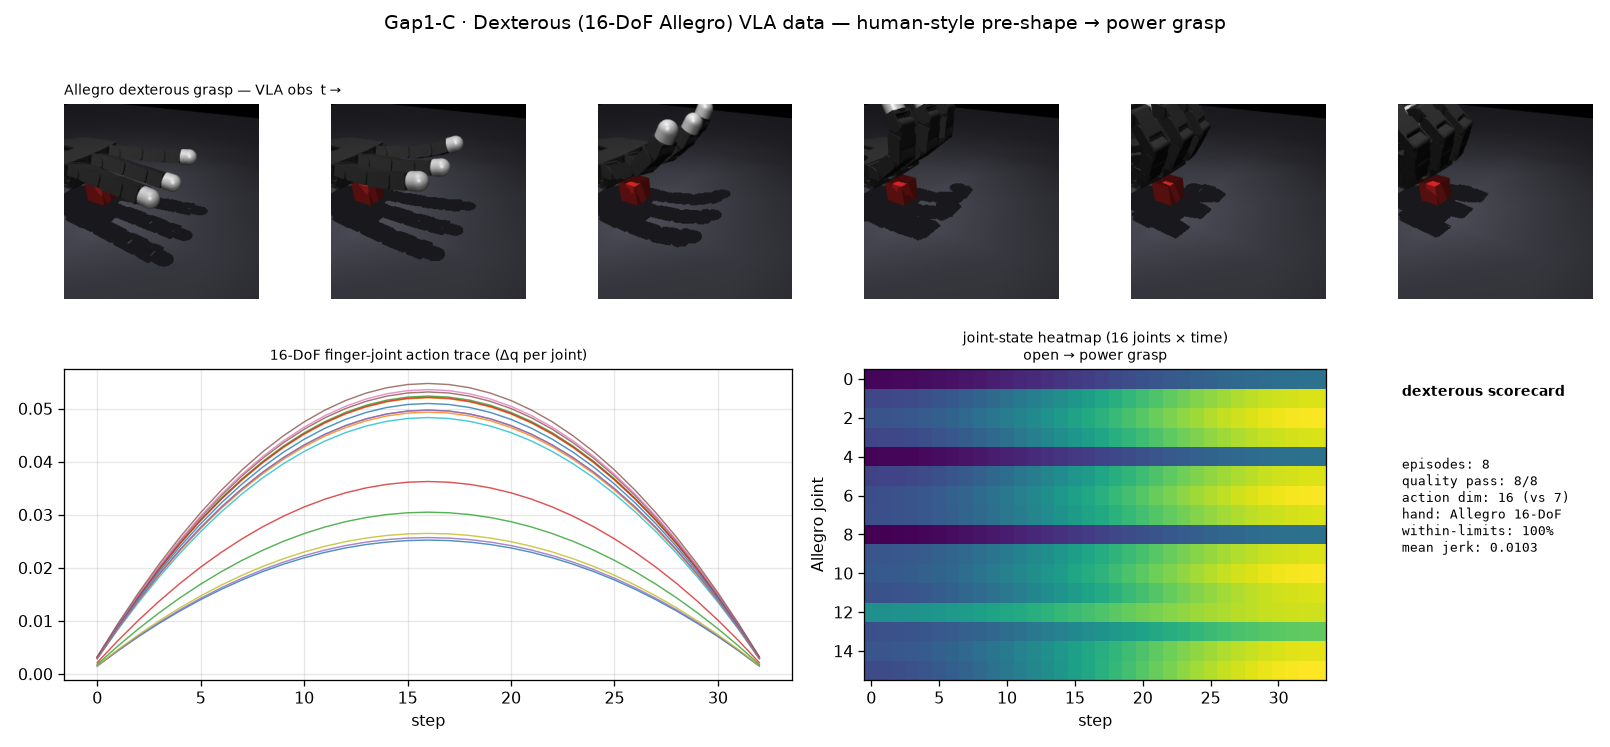
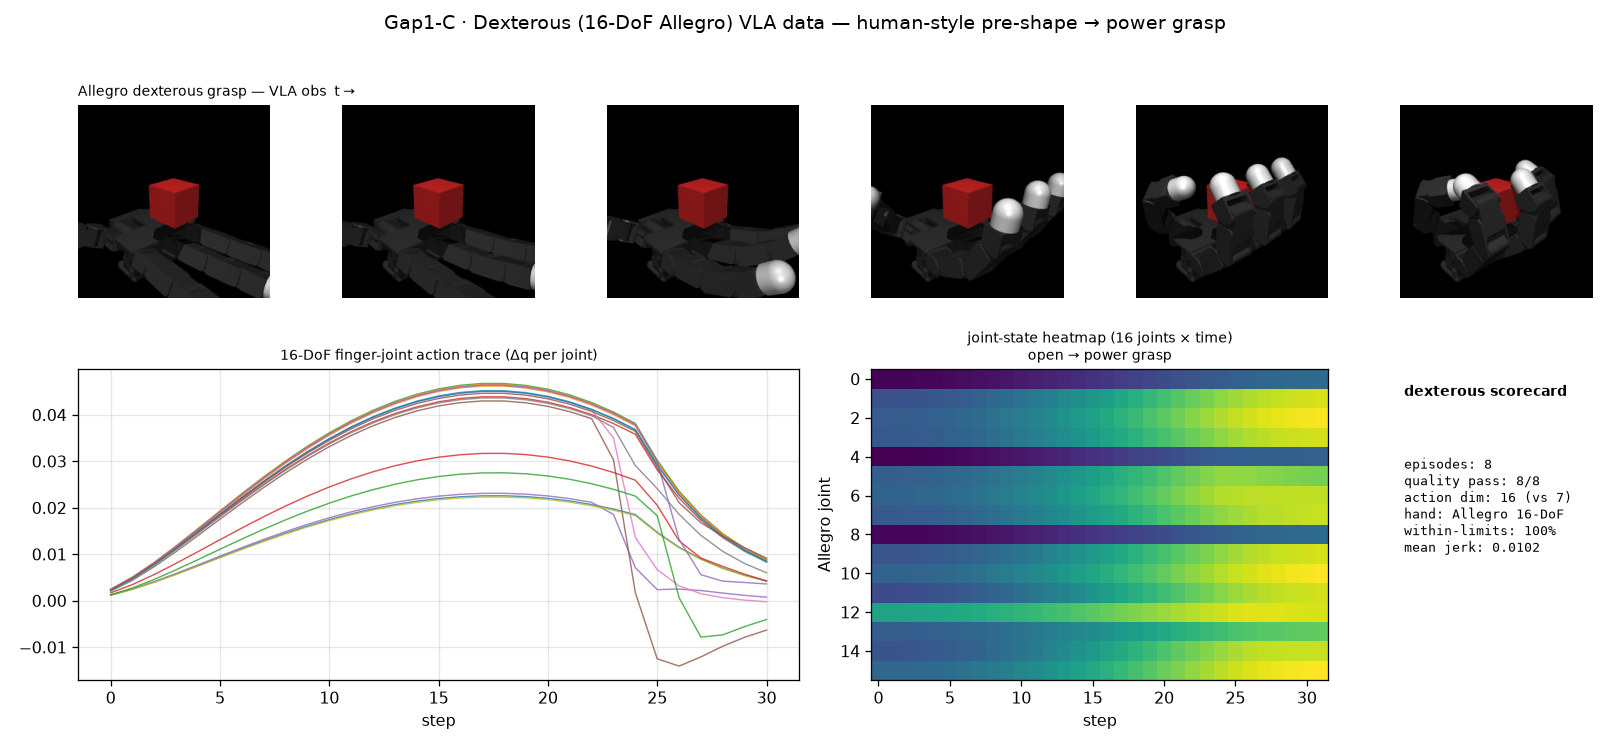
vla §Gap1-C: dexterous grasp 관통 수정 — 접촉 물리 닫힘(손끝이 큐브 표면서 멈춤, 침투~2-3mm)
Claude-Session: https://claude.ai/code/session_01McbJgx4gfmrVVJzvBALQZp

diff --git a/vla.md b/vla.md
@@ -163,8 +163,8 @@ ad-hoc npz를 **OpenVLA/Octo가 실제로 먹을 수 있는** RLDS(Open-X-Embodi
 
 <img src="_static/vla_dex.png" alt="dexterous 16-DoF Allegro VLA data — grasp obs, 16-joint action trace, joint heatmap" style="width:100%;max-width:1150px;border-radius:8px">
 
-- 8 에피소드, within-limits **100%**, finger jerk ~0.010(스무딩), 관절-상태 히트맵이 open→power grasp로 램프.
-- 정직: 키네매틱 replay(물리 파지성공 아님)이고 grasp 관절타깃은 HM5식 power-grasp를 Allegro 한계 내로 생성(MANO가 이 머신에 없어 전체 retarget 재실행은 못 함). 요점은 **dexterous 16-DoF action 공간과 그 데이터 파이프라인**. 코드 `src/vla_datapipe_dexterous.py`.
+- 8 에피소드, within-limits **100%**, finger jerk ~0.010, **접촉 물리로 손가락이 큐브 표면에서 멈춤**(잔여 침투 ~2–3mm) — 관통 아님.
+- 정직: position 액추에이터+`mj_step`으로 **접촉 존중 닫힘**(2mm 접촉 시 freeze)이라 손가락이 표면에서 멈춘다(자유 키네매틱 pose로 뚫고 지나가지 않음). grasp 타깃은 HM5식 config를 Allegro 한계 내로(MANO가 이 머신에 없어 전체 retarget 재실행은 못 함). 요점은 **dexterous 16-DoF action 공간 + 데이터 파이프라인**. 코드 `src/vla_datapipe_dexterous.py`.
 
 ### ⑧ 확장 D — 실제 human 비디오 스케일업 (Meta HOT3D, 다중 시퀀스)
 
